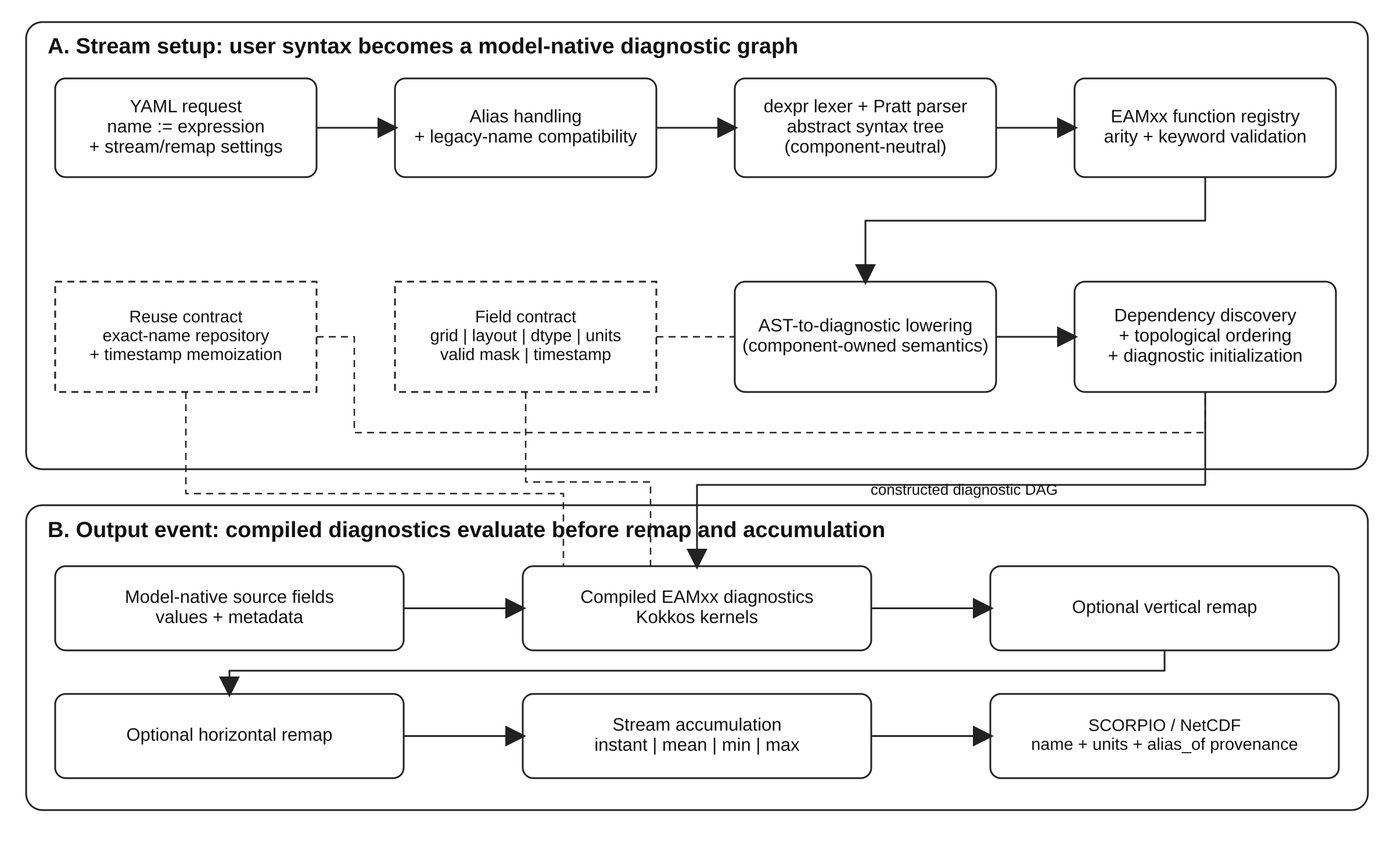
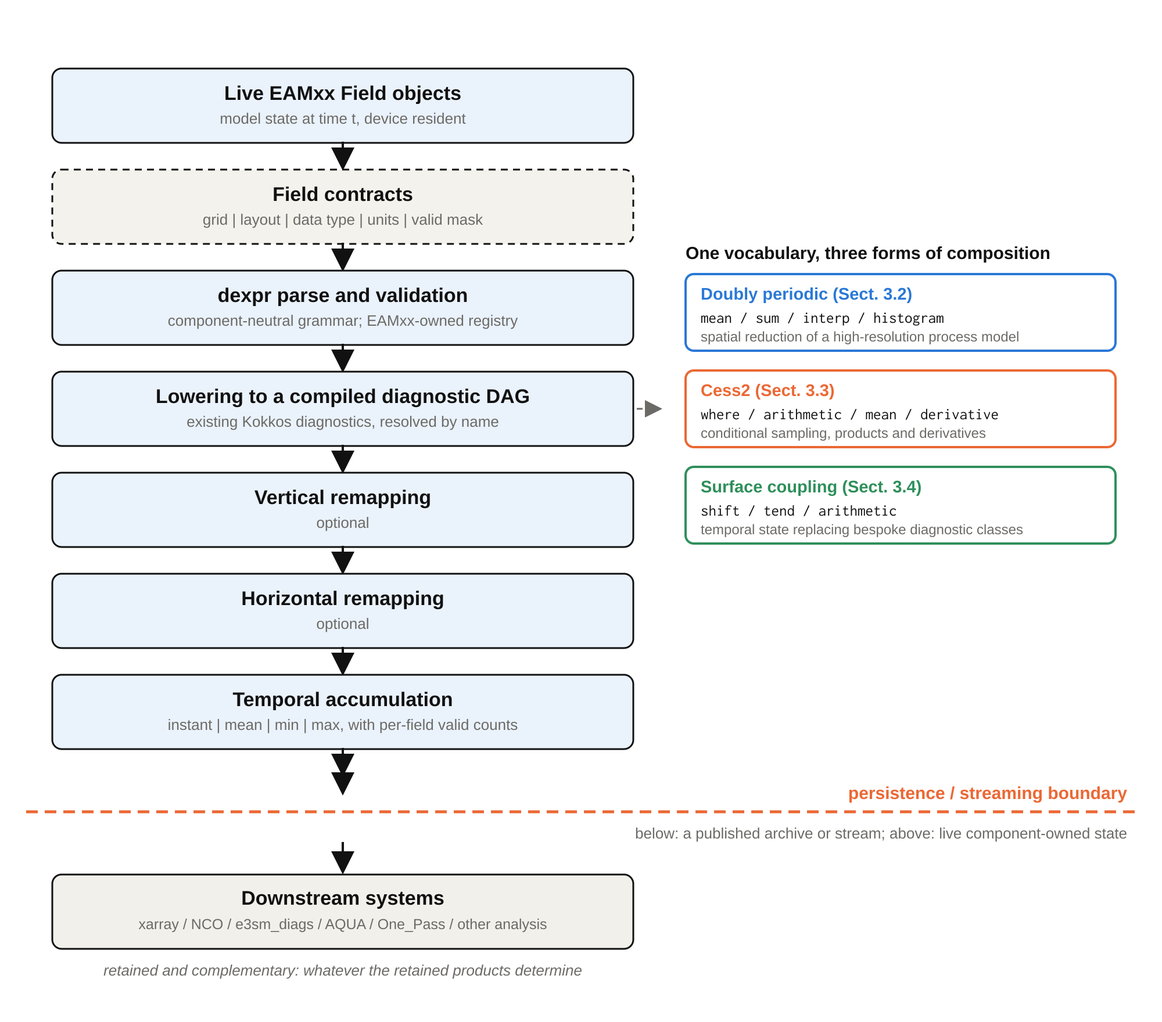
add demos and summaries

diff --git a/tex/main.tex b/tex/main.tex
@@ -14,29 +14,20 @@
 %\usepackage{rotating}
 
 
-%% booktabs is not loaded by copernicus.cls; the observable-class table needs it.
 \usepackage{booktabs}
-%% array gives \newcolumntype and the >{\raggedright\arraybackslash}p{} specs
-%% used by the wide comparison tables.
 \usepackage{array}
 
 %% Macros used by this manuscript.
-%% \unit is provided by copernicus.cls; \cov avoids depending on \operatorname.
-\newcommand{\cov}{\mathrm{cov}}
 \newcommand{\dexpr}{\texttt{dexpr}}
-%% Long \texttt{} strings (paths, expressions) have no hyphenation points and
-%% overflow the text block. \bk is an invisible break opportunity.
 \newcommand{\bk}{\discretionary{}{}{}}
 \newcommand{\todo}[1]{\textbf{[TODO: #1]}}
-%% Any claim that depends on an experiment not yet run MUST be wrapped in
-%% \planned. Nothing wrapped in \planned may be reported as a result.
-\newcommand{\planned}[1]{\textbf{[PLANNED, NOT YET RUN: #1]}}
 
 \graphicspath{{./}{../}{../fig/}}
 
 \begin{document}
 
-\title{Composable runtime diagnostics for Earth system models}
+\title{Composable runtime diagnostics for the Energy Exascale Earth System Model}
+% we likely need to include versions of dexpr and eamxx here?
 
 
 % \Author[affil]{given_name}{surname}
@@ -48,6 +39,9 @@
 \Author[5]{Jeffrey}{Johnson}
 \Author[6]{Xylar}{Asay-Davis}
 \Author[7]{Brian}{O'Neil}
+\Author[1]{Hassan}{Beydoun}
+\Author[1]{Walter}{Hannah}
+\Author[1]{Peter}{Bogenschutz}
 \Author[1]{Andrew}{Gettelman}
 \Author[1]{Susannah}{Burrows}
 \Author[4]{Chengzhu}{Zhang}
@@ -64,30 +58,25 @@
 \affil[*]{Somewhere on This Bitter Earth, Anywhere, SW, TBE}
 
 
-\runningtitle{Composable diagnostics for ESMs}
-
+\runningtitle{Composable diagnostics for E3SM}
 \runningauthor{Mahfouz et al.}
-
 
 \received{}
 \pubdiscuss{} %% only important for two-stage journals
 \revised{}
 \accepted{}
 \published{}
-
 %% These dates will be inserted by Copernicus Publications during the typesetting process.
-
-
 \firstpage{1}
-
 \maketitle
 
 
-
 \begin{abstract}
-
-\todo{tbd}
-
+We describe a small diagnostic expression language that lets a derived diagnostic be requested in the output configuration instead of added to model source code.
+A standalone parser turns the string into a syntax tree; the host model validates it against a vocabulary it owns and lowers it onto its existing compiled diagnostics, which run once per model step on live, device-resident model state, before the stream's remapping and temporal accumulation.
+We implement the system in the C++ atmosphere component of the Energy Exascale Earth System Model.
+Expression-produced fields match directly compiled equivalents to bit-for-bit or floating-point round-off, reproduce across restart, and add no end-to-end cost separable from the model's own run-to-run variability at the expression depths we test.
+Three miniature experiments --- a doubly periodic case, a conditional high-cloud workflow and a surface-coupling debugging investigation --- show that representative diagnostics from each can be written as expressions and evaluated at runtime.
 \end{abstract}
 
 \introduction
@@ -105,12 +94,12 @@ In practice, the raw archive is never saved in its entirety.
 Instead, a carefully chosen subset of the model state is written according to an output list agreed upon in advance, supplemented with developer-written derived diagnostics, at a specified cadence, and at a specified precision.
 Customarily, the set of all available output variables is hardcoded in the model and cannot be changed without modifying the source code, and oftentimes changes are inspired by community-driven model intercomparison projects or by specific scientific questions.
 It is normally treated as a logistical decision, a question of how much disk is available and for how long, but it is also a scientific one.
-The output list acts as an observation operator applied to the simulated trajectory, and it fixes a priori which questions the model output dataset can answer a priori.
+The output list acts as an observation operator applied to the simulated trajectory, and it fixes a priori which questions the model output dataset can answer.
 
-The arrangement was comfortable while models had coarse resolution, but at storm- and cloud-resolving resolution, challenges arise due to both the output volume \citep{balaji_requirements_2018} and the questions we want to ask of the model.
+The arrangement is comfortable while models have coarse resolution, but at storm- and cloud-resolving resolution, challenges arise due to both the output volume \citep{balaji_requirements_2018} and the questions we want to ask of the model.
 A coarse model is evaluated for its mean state, the seasonal cycle, and top-of-atmosphere energy balance, where monthly or daily mean of a fixed field list serves the purpose well enough.
 A kilometer-scale model enables further specialized evaluations, e.g., the organization of convection, updraft and downdraft statistics, cloud lifecycle, precipitation and wind extremes, and boundary-layer structure \citep{caldwell_convectionpermitting_2021,donahue_exascale_2024}.
-The latter required conditional means, higher moments, distributions, event frequencies, threshold exceedances, and quantities tracked across time steps, which are not captured by simple averages.
+The latter require conditional means, higher moments, distributions, event frequencies, threshold exceedances, and quantities tracked across time steps, which are not captured by simple averages.
 They need samples co-located in space and time at the model's own frequency, conditioning on masks the model forms on its own grid, and in some cases state carried from one step to the next.
 None of them commutes with the averaging and remapping that make output affordable either, so each one has to be formed at a particular point in the pipeline: a cloud mask diagnosed on the native grid and then remapped is a different quantity from a mask applied after remapping, and a covariance is not recoverable from separately averaged inputs at any cadence.
 Where a derived quantity is computed, and in what order relative to averaging and remapping, is therefore part of its definition, and an output list that fixes that order has already fixed the observable.
@@ -118,8 +107,8 @@ So the archive has to grow and the archive has to carry different things, and th
 
 Model output is also increasingly a training set rather than an archive a person reads.
 Component and full-model emulators stand in as economical alternatives to physics models; process emulators replace uncertain or expensive parameterizations inside a running model; output emulators handle downscaling, bias correction, or projection onto impact space; and foundation models are fit to corpora assembled from many sources.
-Training datasets require higher frequency and different variables than human analysis did --- tendencies, fluxes, co-located pairs, and process-level state --- and they want a great deal of it.
-A training set prepared from model output is one more selection applied to the simulated trajectory, and it carries the same property as any other: whatever the preparation discarded is not available to the model being trained.
+Training datasets require higher frequency and different variables than human analysis does --- tendencies, fluxes, co-located pairs, and process-level state --- and they want a great deal of it.
+A training set prepared from model output is one more selection applied to the simulated trajectory, and it carries the same property as any other: whatever the preparation discards is not available to the model being trained.
 
 Taken together, these pressures are an argument for rethinking how model output is designed.
 In this manuscript, we argue for a system in which a diagnostic is a mathematical expression, a flexible composition of a small set of operators with an algebra over them, evaluated by the model at runtime while the full state is still in memory.
@@ -132,51 +121,49 @@ Outside Earth system modeling, other domains reduce before persistence as a matt
 The LHCb experiment reconstructs and selects physics candidates inside its trigger and discards the raw event, retaining an object about an order of magnitude smaller \citep{aaij_comprehensive_2019}.
 Molecular dynamics composes on-the-fly computes and time averages, so a study need not write trajectories \citep{thompson_lammps_2022}.
 Computational fluid dynamics evaluates user-written field expressions at run time, with dimensions and region masks, and can decline to store the result \citep{weller_tensorial_1998}.
-Astrophysical analysis frameworks carry units through recursively defined derived fields \citep{turk_yt_2011}.
+Astrophysics analysis frameworks carry units through recursively defined derived fields \citep{turk_yt_2011}.
 Runtime-analysis frameworks provide expression systems, including just-in-time-compiled derived fields \citep{ayachit_paraview_2015,childs_ascent_2022,godoy_adios_2020}.
 Compiling a declarative mathematical specification down to domain-specific code is long-established in finite-element software \citep{alnaes_unified_2014}, and separating what is computed from how it is scheduled is standard practice in domain-specific compilers \citep{ragan-kelley_halide_2013}.
 
 Within Earth system modeling, the capability appears at four placements, each further from the model than the last.
-Model-integrated diagnostic managers expose a registered catalogue with reductions \citep{valcke_flexible_2012,danabasoglu_community_2020,kern_diagnostic_2016,adams_lfric_2019}, with conditional sampling and budgets available through specialized namelist interfaces \citep{wan_condidiag10_2022} and arbitrary code through plugin interfaces \citep{hartung_icon_2025}.
-These sit closest to the state, but what the user selects from is a catalogue of quantities somebody compiled in advance, so a new quantity is a source change.
+Model-integrated diagnostic managers expose a registered catalogue with reductions \citep{valcke_flexible_2012,danabasoglu_community_2020,kern_diagnostic_2016,adams_lfric_2019}, with conditional sampling and budgets available through specialized namelist interfaces \citep{wan_condidiag10_2022} and arbitrary code through plugin interfaces \citep{hartung_icon_2025,kern_diagnostic_2016}.
+These sit closest to the state, but what the user selects from is a catalogue of quantities somebody compiles in advance, so a new quantity is a source change.
 I/O middleware carries an output algebra on the write path: XIOS provides arithmetic and elementary functions on fields, six temporal operations, and axis and domain transformations \citep{yepes-arbos_evaluation_2022}, MultIO provides configurable in-memory processing pipelines \citep{sarmany_multio_2024}, and ADIOS2 supports writer-side derived variables \citep{godoy_adios_2020}.
-Streaming architectures publish model state to external consumers while a simulation runs: nextGEMS made common data handling and analysis a first-order part of multi-model kilometer-scale development, EVE frames simulation and data services as a federated infrastructure, and the Destination Earth Climate Digital Twin couples high-resolution production with streaming and downstream processing through One-Pass and AQUA \citep{segura_nextgems_2025,stevens_earth_2024,doblas-reyes_destination_2026,grayson_statistical_2025,nurisso_aqua_2026}.
+Streaming architectures publish model state to external consumers while a simulation runs: nextGEMS makes common data handling and analysis a first-order part of multi-model kilometer-scale development, EVE frames simulation and data services as a federated infrastructure, and the Destination Earth Climate Digital Twin couples high-resolution production with streaming and downstream processing through One-Pass and AQUA \citep{segura_nextgems_2025,stevens_earth_2024,doblas-reyes_destination_2026,grayson_statistical_2025,nurisso_aqua_2026}.
 Post-processing on the archive is the furthest placement and the usual one.
 Offline analysis is supported by mature tooling in which fields are labeled objects and operators compose over them \citep{zender_analysis_2008,hoyer_xarray_2017,zhang_e3sm_2022}, and a scientist can express essentially any quantity there without touching model source code.
 What post-processing does not have is the model state.
-It reproduces a quantity exactly whenever that quantity is determined by what was already written, and it cannot when it is not.
-The persistence boundary falls between the third placement and the fourth, and reduction before persistence is the direction the field is moving.
+It reproduces a quantity exactly whenever that quantity is determined by what is already written, and it cannot when it is not.
+The persistence boundary falls between the second placement and the third: I/O middleware still acts on the write path before anything is published, whereas streaming architectures publish to external consumers and post-processing reads an archive that is already written.
+Reduction before persistence is the direction the field is moving.
 
-Read against our thesis of Sect.~\ref{sec:intro}, these systems supply two of its three parts but rarely all three at once.
-The algebra is widely available, and so is evaluation before persistence.
-What is scarce is an algebra whose operators are the model's own and whose operands are live model state: XIOS applies its algebra to fields exported into its own data model, with units, masks and grids reconstructed there rather than owned by the component; streaming systems operate on a harmonized state after publication; and diagnostic managers own both the state and the semantics but offer a catalogue rather than an algebra.
-Since several of these systems also run while a simulation is running, the distinction is not online versus offline, but which state is still available when the operation executes and who owns the operators that act on it.
-For that reason we follow \citet{childs_terminology_2020} in avoiding ``in situ'', whose established usage covers analysis over a published mesh representation, and we use ``model-integrated'' or ``in-model'' throughout.
-Dedalus and Oceananigans come closest, letting a user write an output quantity as an expression and evaluate it during the run, with Oceananigans compiling it to a GPU kernel \citep{burns_dedalus_2020,ramadhan_oceananigansjl_2020}; they are written in languages with a runtime (Python and Julia, respectively), which a compiled production Earth system component does not have.
+Read against our thesis of Sect.~\ref{sec:intro}, each of its three parts (an algebra, evaluation before the state is published, and operators that are the model's own acting on live model state) exists somewhere, and two of the three are fairly common.
+Dedalus and Oceananigans have all three: a user writes an output quantity as an expression, and it is evaluated during the run against the model's own operators, with Oceananigans compiling the composition to a GPU kernel \citep{burns_dedalus_2020,ramadhan_oceananigansjl_2020}.
+They obtain it from the symbolic and operator systems of their host languages, Python and Julia, which a compiled production component does not have.
+Since several of these systems run while a simulation is running, the distinction is not online against offline.
+It is which representation of the state the operator receives, and therefore which code implements the operator: for a quantity whose definition depends on the component's own conventions, its vertical coordinate, its area weights, its masking and renormalization rule, the implementation is part of the definition.
+For that reason we follow \citet{childs_terminology_2020} in avoiding ``in situ,'' whose established usage covers analysis over a published mesh representation, and we write ``model-integrated'' or ``in-model'' throughout.
 
 \subsection{Contributions}
 \label{sec:contribs}
 
-We implement the system described above in the C++ atmosphere component of E3SM \citep{donahue_exascale_2024}, written on Kokkos for performance portability \citep{trott_kokkos_2022}.
-A user writes a derived quantity as an expression over model fields in the output configuration; a standalone parser turns the string into a syntax tree, and host model validates it against a vocabulary it owns and lowers it onto its existing compiled diagnostics.
+We implement the system described above in the C++ atmosphere component of E3SM \citep{donahue_exascale_2024}, written with Kokkos for performance portability \citep{trott_kokkos_2022}.
+A user writes a derived quantity as an expression over model fields in the output configuration; a standalone parser turns the string into a syntax tree, and the host model validates it against a vocabulary it owns and lowers it onto its existing compiled diagnostics.
 The operators are familiar ones for atmospheric modeling: interpolation to levels, pressure surfaces and height surfaces; horizontal, zonal and vertical reduction; vertical derivatives; conditional sampling; histograms; arithmetic; and a one-step temporal shift.
 Composed with the stream's own instantaneous, mean, minimum and maximum accumulation, they cover the projections named in Sect.~\ref{sec:intro}.
 
 Our system has four properties as follows.
 It is user-defined: the quantity is named in a configuration file, not added to model source code, so asking a new question does not require a review and a merge.
-It is inline: evaluation happens inside the component's own time-step machinery, against live field objects, so a quantity can be formed before the reductions that would destroy it.
+It is in-model: each expression is evaluated once per model step, at the end of the step and inside the component's own output path, against live \texttt{Field} objects and before the stream's remapping and temporal accumulation --- so a quantity can be formed before the reductions that would destroy it, though not between two parameterizations.
 It is GPU-friendly: the objects that execute are the model's own Kokkos kernels operating on the same device-resident allocations the model's processes use, so nothing is copied to the host and no second array model is introduced.
 It is flexible but bounded: the operators compose freely, while the vocabulary itself is deliberately small, which is a governance property rather than an expressiveness win.
 
 This implementation is a start rather than a finished system.
 We do not demonstrate a model-independent language, port the capability to another component yet, implement an optimizer or a typed intermediate representation, or fuse expressions for performance.
-Our goal is to integrate this capability in the C++ ocean component of E3SM \citep{petersen_ocean_2026} soon, and from there to the rest of the model components.
+Our goal is to integrate this capability in the C++ ocean component of E3SM \citep{petersen_ocean_2026} soon, and from there to the rest of E3SM components.
 Additionally, we aim to expand the vocabulary to cover more derived quantities and operations that scientists commonly use in their analyses on an as-needed basis.
 
-\section{Methods}
-\label{sec:methods}
-
-\subsection{Design and implementation}
+\section{Design and implementation}
 \label{sec:design}
 
 \emph{Fields as contracts.}
@@ -194,7 +181,7 @@ Two fields can be added only if their units agree; multiplying them multiplies t
 Like prognostic processes in the model, diagnostic processes take fields as input and produce fields as output.
 A control driver orchestrates the execution of these processes, ensuring that dependencies are satisfied and that the model advances in a consistent manner.
 Because the output reenters the model's field repository, it can be used as input for subsequent processes or diagnostics, enabling a composable workflow without additional machinery.
-A diagnostic also hashes the requested output time stamp together with the tracking time stamps of its inputs and skips computation if the hash is unchanged, so a diagnostic shared by several streams at one model time runs once, and a static repository keyed by request name lets a second stream reuse an object the first stream built.
+A diagnostic also hashes the requested output time stamp together with the tracking time stamps of its inputs and skips computation if the hash is unchanged, so a diagnostic shared by several streams at one model time runs once, and a static repository keyed by request name lets a second stream reuse an object the first stream builds.
 
 
 \emph{Output pipeline.}
@@ -206,19 +193,34 @@ The output driver evaluates diagnostics on the source grid, then applies optiona
 These stages are defined in Eq.~\eqref{eq:pipeline}, with absent stages resolving to identity.
 The written expression controls $\mathcal{D}_\text{e}$ and stream settings control the rest.
 Averaging and remapping do not commute with nonlinear operations: a user who writes \texttt{qv*T\_mid} in an averaged, horizontally remapped stream gets $\mathcal{A}_t\mathcal{R}_\text{h}[q_vT]$, which is neither $\mathcal{A}_t[\mathcal{R}_\text{h} q_v\cdot\mathcal{R}_\text{h} T]$ nor $\mathcal{R}_\text{h}\mathcal{A}_t[q_vT]$.
-The order is a design decision made to cleanly separate concerns in the output pipeline. 
+The order is a design decision made to cleanly separate concerns in the output pipeline.
+Figure~\ref{fig:arch} places the stages of Eq.~(\ref{eq:pipeline}) against the persistence boundary and names, at the lowering stage, the three demonstrations of Sect.~\ref{sec:demos} and the operators each draws on.
+The figure's one piece of encoding is which side of that boundary a stage sits on: above it a stage sees \texttt{Field} objects whose grid, layout, units and mask the component owns, and below it a published archive or stream.
+Downstream analysis is not displaced by anything above the line and is drawn with the same weight, because the products retained above it are what downstream analysis then works from.
+
+\begin{figure}[t]
+\centering
+\includegraphics[width=\columnwidth]{../fig/fig01_architecture.png}
+\caption{Where a diagnostic expression is evaluated and what is available to it there.
+The column is Eq.~(\ref{eq:pipeline}) with its stages named: live fields, the contracts they carry, parse and validation, lowering onto compiled diagnostics, the two optional remaps, and temporal accumulation.
+Shading marks the stages that see live, component-owned model state.
+The three demonstrations of Sect.~\ref{sec:demos} are annotated at the lowering stage, which is the only stage at which they differ: each draws a different part of one vocabulary over the same live state.
+Below the persistence boundary, downstream systems act on a published archive or stream and are retained rather than replaced.}
+\label{fig:arch}
+\end{figure}
+
 
 \emph{Global grammar, local semantics.}
 Even though composition is possible in the absence of a formal grammar, it quickly leads to ambiguity and confusion.
 Hence, introducing our diagnostic expression parser, \dexpr\,--- a lexer, a \citet{pratt_top_1973} parser, an abstract syntax tree (AST), a renderer that prints an abstract syntax tree back to canonical text, and a call validator.
 It is a minimalist C++ library with no dependencies, and it does not know what a field, a grid, or a time step is.
 The component decides what means something, through a function registry in which it declares each callable with its name, arity, accepted keywords, and an example of the call as written.
-The registry validates itself at construction, such that each example must parse, must call the function that declared it, and must satisfy its own arity and keyword rules, so an inconsistent declaration fails when the registry is built rather than when a user first writes it.
-The division is the design's main portable idea: The grammar is global, the semantics are local, and two components can share a parser without sharing a single physical operator.
+The registry validates itself at construction, such that each example must parse, must call the function that declares it, and must satisfy its own arity and keyword rules, so an inconsistent declaration fails when the registry is built rather than when a user first writes it.
+The division is the design's main portable idea: The grammar is global, the semantics are local, and two components can share a parser without sharing a single physics operator.
 
 \emph{Surface syntax.}
-The syntax was formalized based on xarray \citep{hoyer_xarray_2017} spelling where possible.
-An expression written to a file must be named with \texttt{:=}, because the expression itself may be not a valid NetCDF \citep{rew_netcdf_1990} variable name, and expressions in an \texttt{aliases} section are intermediates: built, usable by name, but not written.
+The syntax follows xarray \citep{hoyer_xarray_2017} spelling where possible.
+An expression written to a file must be named with \texttt{:=}, because the expression itself may not be a valid NetCDF \citep{rew_netcdf_1990} variable name, and expressions in an \texttt{aliases} section are intermediates: built, usable by name, but not written.
 \begin{verbatim}
 fields:
   physics_pg2:
@@ -229,7 +231,7 @@ fields:
       - warm_T_colavg  := warm_T.mean('lev')
 \end{verbatim}
 The variable \texttt{q\_flux} carries \texttt{(qc+qv)*p\_mid} as its \texttt{alias\_of} attribute.
-Operands may be model fields, other expressions, named physical constants such as \texttt{P0} and \texttt{Rgas}, or numeric literals.
+Operands may be model fields, other expressions, named physics constants such as \texttt{P0} and \texttt{Rgas}, or numeric literals.
 Precedence is conventional, so \texttt{qc+qv*p\_mid} means \texttt{qc+(qv*p\_mid)} --- which is in fact rejected at construction due to units mismatch --- whereas \texttt{(qc+qv)*p\_mid} is admissible.
 Table~\ref{tab:vocabulary} gives the vocabulary.
 For now, there are no loops, user-defined functions, mutation, external state, or dynamic code loading, and every operation has a compiled implementation, a field contract, and a unit test.
@@ -251,13 +253,11 @@ Every primitive registered today has $m=1$, which the diagnostic interface enfor
 
 
 \begin{table*}[t]
-\caption{Diagnostic-expression vocabulary. The last column states the
-important restrictions rather than the full field contract. Eleven methods are
-registered; the four arithmetic operators, unary negation and the six
-comparisons complete the surface language.}
+\caption{Diagnostic-expression vocabulary.
+The last column states the important restrictions rather than the full field contract.
+Eleven methods are registered; the four arithmetic operators, unary negation and the six comparisons complete the surface language.}
 \label{tab:vocabulary}
-\small
-\setlength{\tabcolsep}{4pt}
+\small \setlength{\tabcolsep}{4pt}
 \begin{tabularx}{\textwidth}{%
   >{\raggedright\arraybackslash}p{1.8cm}
   >{\raggedright\arraybackslash}p{4.4cm}
@@ -288,9 +288,9 @@ Backward tendency & \texttt{X.tend()} & composition & Expands to \texttt{(X-X.sh
 \emph{Lowering by name.}
 A request reaches the output manager as a string, and the manager splits an optional \texttt{name :=} prefix, tries the remainder through \dexpr, which tokenizes and parses it; the AST is then validated against the model's registry.
 Only the root node is translated into one diagnostic class and one parameter list; its operands are rendered back to canonical text and recorded as the diagnostic's input field names, so the ordinary dependency resolver finds them missing from the field manager and sends each through the same factory, which parses it in turn (Fig.~\ref{fig:dag}).
-Recursion through names, rather than through a graph object, builds the whole expression graph using no data structure the output manager did not already have.
+Recursion through names, rather than through a graph object, builds the whole expression graph using no data structure the output manager does not already have.
 Canonical rendering is what makes the name a reliable key, such that \texttt{qv > 0.01} and \texttt{qv>0.01} name the same diagnostic when nested, while the top-level request string is kept verbatim because it is also the output variable's name.
-Validation is layered so that a failure is reported by the layer that knows why it failed.
+Validation is layered so that a failure is reported by the layer that knows why it fails.
 This way, \dexpr\ catches malformed syntax, unknown functions, wrong arity, and keyword errors; the model's front end catches operators with no diagnostic, comparisons outside \texttt{where}, and roots that are not fields; construction catches incompatible units, layouts, data types, and grids; and stream setup catches unnamed expressions, duplicate aliases, unresolvable dependencies, and integer output.
 No phase silently repairs a request, and there is no algebraic rewriting.
 The variable in the file carries the user's output name, the derived units, and an \texttt{alias\_of} attribute holding the requested expression, which is expression-level provenance rather than the fully resolved graph; complete reconstruction additionally requires the stream configuration and the run record.
@@ -298,33 +298,111 @@ The variable in the file carries the user's output name, the derived units, and 
 \begin{figure}[t]
 \centering
 \includegraphics[width=0.42\textwidth]{../fig/fig02_expression_dag.png}
-\caption{Dependency graph for
-\texttt{moist\_column\_T := T\_mid.where(qv>0.01).mean('lev')}, built by name
-resolution alone. Lowering translates only the root, a vertical contraction,
-and records its operand as the string \texttt{T\_mid.where((qv>0.01))};
-resolving that name builds the conditional-sampling node beneath it, whose own
-operands \texttt{T\_mid} and \texttt{qv} are model fields and end the
-recursion. The comparison yields a validity mask; conditional sampling yields a
-masked field; the vertical mean computes a masked numerator and a valid-weight
-denominator. Stream-level remapping and temporal accumulation follow the graph,
-in the order of Eq.~(\ref{eq:pipeline}).}
+\caption{Dependency graph for \texttt{moist\_column\_T := T\_mid.where(qv>0.01).mean('lev')}, built by name resolution alone.
+Lowering translates only the root, a vertical contraction, and records its operand as the string \texttt{T\_mid.where((qv>0.01))}; resolving that name builds the conditional-sampling node beneath it, whose own operands \texttt{T\_mid} and \texttt{qv} are model fields and end the recursion.
+The comparison yields a validity mask; conditional sampling yields a masked field; the vertical mean computes a masked numerator and a valid-weight denominator.
+Stream-level remapping and temporal accumulation follow the graph, in the order of Eq.~(\ref{eq:pipeline}).}
 \label{fig:dag}
 \end{figure}
 
-\subsection{Experiments}
-\label{sec:experiments}
-Experiment list/methods...
+\section{Demonstrations}
+\label{sec:demos}
 
-\section{Results}
-\label{sec:results}
+We use three small experiments to illustrate the diagnostic-expression capability in scientifically recognizable settings.
+Two are reduced versions of workflows used in published studies, while the third comes from an internal debugging investigation related to surface coupling.
+These experiments are demonstrations rather than reproductions; their duration and resolution are intentionally modest, and the scientific conclusions of the corresponding studies are not re-evaluated here.
+All demonstration runs use the C++ atmosphere component of E3SM on NVIDIA A100 GPUs with the Kokkos CUDA backend.
 
-\todo{tbd}
+\subsection{Verification and computational cost}
+\label{sec:verification}
+
+Regression tests compare masked and conditionally sampled diagnostics with hand-computed values, including empty masks, chained conditions and independent valid-sample counts.
+An online product, $\overline{q_vT}$, agrees with an every-step reconstruction to a maximum relative difference of $2.22\times10^{-16}$, one unit in the last place of double precision.
+Formed instead from separately averaged inputs, $\overline{q_v}\,\overline{T}$ departs from it by up to $0.64\%$, so the covariance discarded by averaging before multiplication is measurable rather than nominal.
+A two-day continuous run and the same run restarted after one day produce identical \texttt{shift} and \texttt{tend} output over all eight common windows.
+Repeated requests share a diagnostic graph.
+One and two streams requesting the same expression each evaluate the mask and reduction nodes; only the stream-specific accumulation and write work increases.
+End-to-end timing likewise resolves no expression overhead above repeated-run variability.
 
 
-\conclusions
+\subsection{Doubly periodic profile and moments}
+\label{sec:dpscream}
+\begin{figure*}[t]
+\centering
+\includegraphics[width=\textwidth]{../fig/fig11_demonstrations.png}
+\caption{Three diagnostic products requested through the same expression mechanism.
+Each card lists its stream's output configuration verbatim as \texttt{name := expression}.
+An alias --- built, usable by name, never written --- is set in black, and a written field is set in the color of what it produced, so no panel needs a separate legend.
+The axes and the color bar carry those same names.
+(a) Domain-mean temperature from the miniature doubly periodic case, and beside it the horizontal standard deviation.
+Three moments are retained every step --- $\overline{T}$, $\overline{T^2}$ and $\overline{T}^2$, the overbar a horizontal mean --- and the standard deviation is formed downstream as $(\langle\overline{T^2}\rangle-\langle\overline{T}^2\rangle)^{1/2}$, the angle brackets a time mean.
+Squaring the horizontal mean online, rather than squaring the time-mean profile afterwards, is what makes this the time mean of the instantaneous horizontal variance.
+(b) The P3 ice mixing-ratio tendency from the miniature high-cloud workflow, sampled in cloudy sky and over all sky: the two requests differ by one method call, and the cloudy-sky profile is larger than the all-sky one by more than an order of magnitude through most of the troposphere, so the two are drawn on separate scales.
+The shaded band marks the levels at which the cloud mask admits samples, read from the stream's own valid-sample count.
+(c) The fraction of steps at which successive surface-temperature differences reverse sign, formed with one-step shifts and arithmetic and written as a global field.
+Each ne30pg2 cell is drawn as itself, so the panel carries no interpolation the model did not perform.
+The panels demonstrate spatial reduction, conditional sampling and temporal composition, respectively; none is used to draw a new conclusion about the simulated system.}
+\label{fig:demos}
+\end{figure*}
+
+The first experiment uses a $50\times50$\,km doubly periodic radiative--convective-equilibrium domain with 100 physics columns, 128 vertical levels and a 100\,s time step.
+It is a reduced instance of the doubly periodic configuration of \citet{bogenschutz_high_2025}.
+We request the horizontal temperature profile \texttt{T\_mid.\bk mean('col')}, a mass-weighted column water-vapor quantity \texttt{qv.\bk mean('lev',\bk weights='dp')}, and the horizontal second moment \texttt{(T\_mid*T\_mid).\bk mean('col')}.
+The requested reductions execute without a purpose-built diagnostic class and produce the expected vertical products (Fig.~\ref{fig:demos}a).
+The online mean and second moment agree with reductions of the every-step three-dimensional reference.
+The example exercises reductions over model columns and levels, weighted reduction and composition of a reduction with arithmetic.
+Limited-domain studies such as this one are often aimed at domain-mean quantities, which the online reductions supply without writing a single three-dimensional field.
+
+\subsection{Conditional high-cloud products}
+\label{sec:cess2}
+
+The second experiment is a one-day instance of the conditional high-cloud workflow used in the SCREAM analyses of \citet{beydoun_dissecting_2021} \todo{cite 2026 paper}.
+The full study examines the response of tropical anvil cloud to surface warming over 19-month integrations.
+We instead select representative model-side operations from that workflow: the cloud condition $q_i+q_c>10^{-5}$, conditional samples such as \texttt{qi.where(qi+qc>1e-5)}, a conditional vertical derivative, and a product of conditionally sampled quantities.
+The expressions are evaluated every model step and accumulated over a 12\,h window.
+The cloud mask, conditional samples, derivative and products all execute from the output configuration and produce vertical high-cloud products, such as the conditioned P3 ice tendency in Fig.~\ref{fig:demos}b.
+Dropping the \texttt{where} clause from that same request leaves an all-sky profile smaller by more than an order of magnitude through most of the troposphere.
+This result is deliberately limited to capability: it shows that a conditional diagnostic graph that would otherwise be assembled from named compiled diagnostics can be represented using \texttt{where}, comparisons, arithmetic, vertical derivatives and reductions.
+For the scientific analysis and interpretation of this class of conditional high-cloud diagnostics, see \citet{beydoun_dissecting_2021} \todo{cite 2026 paper}.
+
+\subsection{Surface-oscillation temporal composition}
+\label{sec:oscillation}
+
+The third experiment uses an existing short surface-coupling case to exercise temporal composition.
+For a surface field $f$, we define a backward difference \texttt{b := f - f.\bk shift(time=1)}, from which a second difference and the product of successive differences follow.
+These are the generic forms of diagnostics that exist as dedicated C++ classes, written during an investigation of intermittent two-time-step behavior in near-surface fields.
+We compare the expressions with those reference kernels where a direct counterpart is available.
+The backward tendency written as \texttt{f.tend()} agrees bit for bit with its compiled counterpart over $1\,179\,648$ values on both tested backends.
+The second difference, product of successive differences and sign-reversal indicator are requested as:
+\begin{verbatim}
+aliases:
+  - bt := f - f.shift(time=1)
+field_names:
+  - bt2         := bt - bt.shift(time=1)
+  - bt2_product := bt*bt.shift(time=1)
+  - alternating := mask.where(bt*bt.shift(time=1)<0)*1.0
+\end{verbatim}
+The three expression products agree bit for bit with direct replays of the corresponding compiled kernels over $17\,664$ values for each of \texttt{T\_2m} and \texttt{wind\_speed\_10m}.
+Figure~\ref{fig:demos}c shows one resulting diagnostic product: the fraction of samples in which successive differences reverse sign.
+The example exercises aliases, one-step history, arithmetic, comparisons and conditional sampling, and shows that such a diagnostic can be assembled from generic operators.
+
+\conclusions[Summary and discussion]
 \label{sec:conclusions}
 
-\todo{tbd}
+E3SM can now be asked for a derived diagnostic by writing it down in familiar syntax.
+The request is an expression over model fields in the output configuration; it is parsed outside the model, validated and lowered by the model against a vocabulary the model owns, and evaluated once per step on live \texttt{Field} objects before the stream remaps or accumulates anything.
+The verification runs show that this route produces the same numbers as the compiled route and survives restart, at no cost that is separable from the model's own run-to-run variability.
+The three demonstrations show that it reaches diagnostics of recognizably different kinds --- a spatial reduction and a second moment, a conditional high-cloud workflow, and a one-step temporal composition --- from the same small operator set.
+
+The vocabulary is small and bounded; it belongs to the host model, so a genuinely new operator is still a source change; what the expression system removes is the need for a source change per \emph{quantity}, not per \emph{operator}.
+For now, expressions are evaluated at the end of the time step and inside the output path, so they reach model state before the reductions that would destroy it but not between two parameterizations.
+Each node of a lowered graph materializes its own intermediate field, so both time and device memory grow with expression depth, and deep graphs are not free.
+The three experiments are capability demonstrations at reduced duration and resolution; they reproduce neither the integrations nor the conclusions of the studies they are drawn from.
+
+Those limits set the work we intend next.
+The clearest is a diagnostic kernelizer: the lowered graph is currently executed node by node, and fusing a chain into a single sweep would remove both the per-operation intermediates and much of the per-operation time, turning expression depth from a cost into a compiler concern.
+That in turn is easier to do behind a typed intermediate representation, which would also give a place for an optimizer to eliminate common subexpressions across streams rather than only sharing whole graphs.
+We also intend to port the capability to the C++ ocean component of E3SM \citep{petersen_ocean_2026}, which is the first real test of how much of the grammar is component-neutral and how much is atmosphere-specific, and to grow the vocabulary as scientists ask for operators it does not yet have.
 
 
 \noappendix
